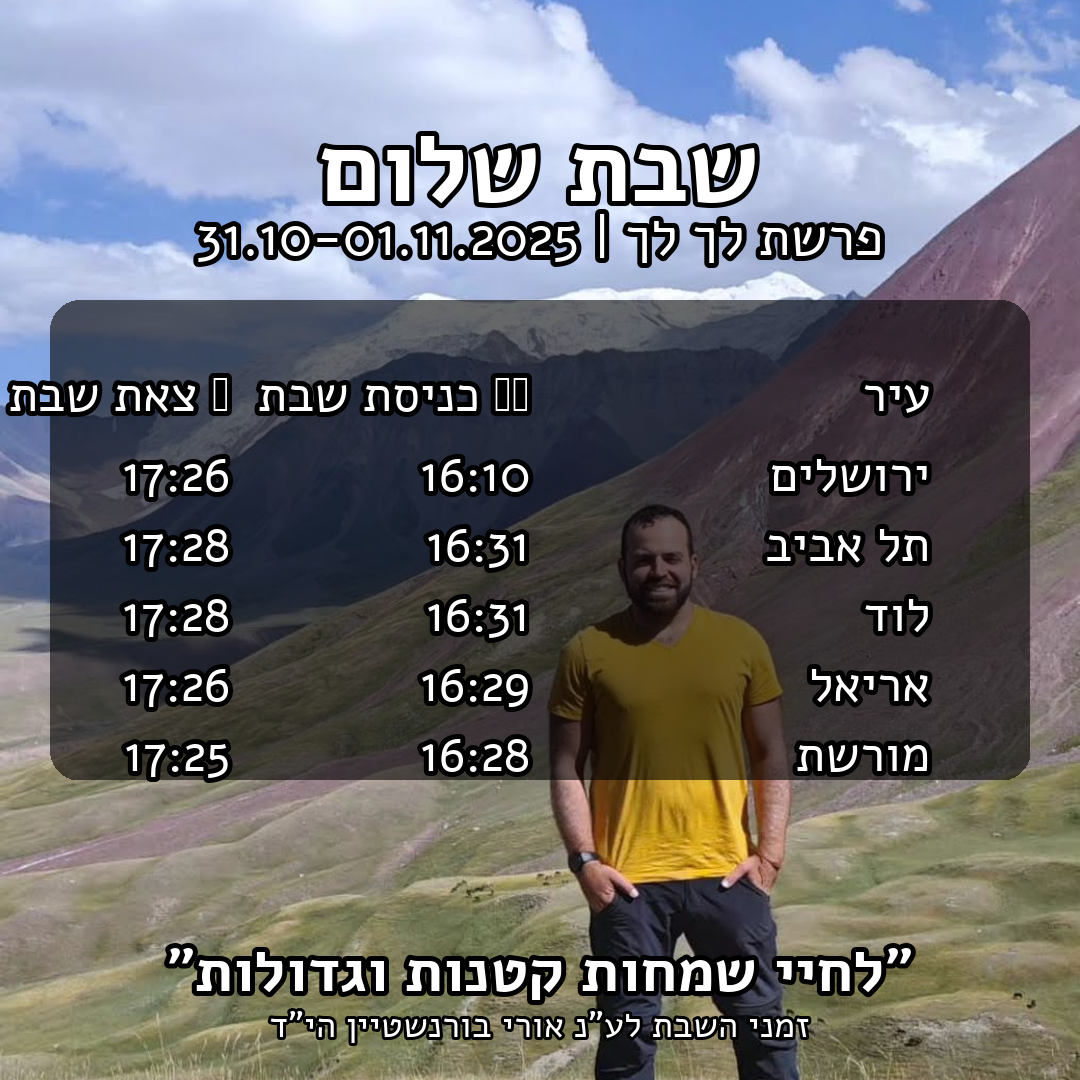
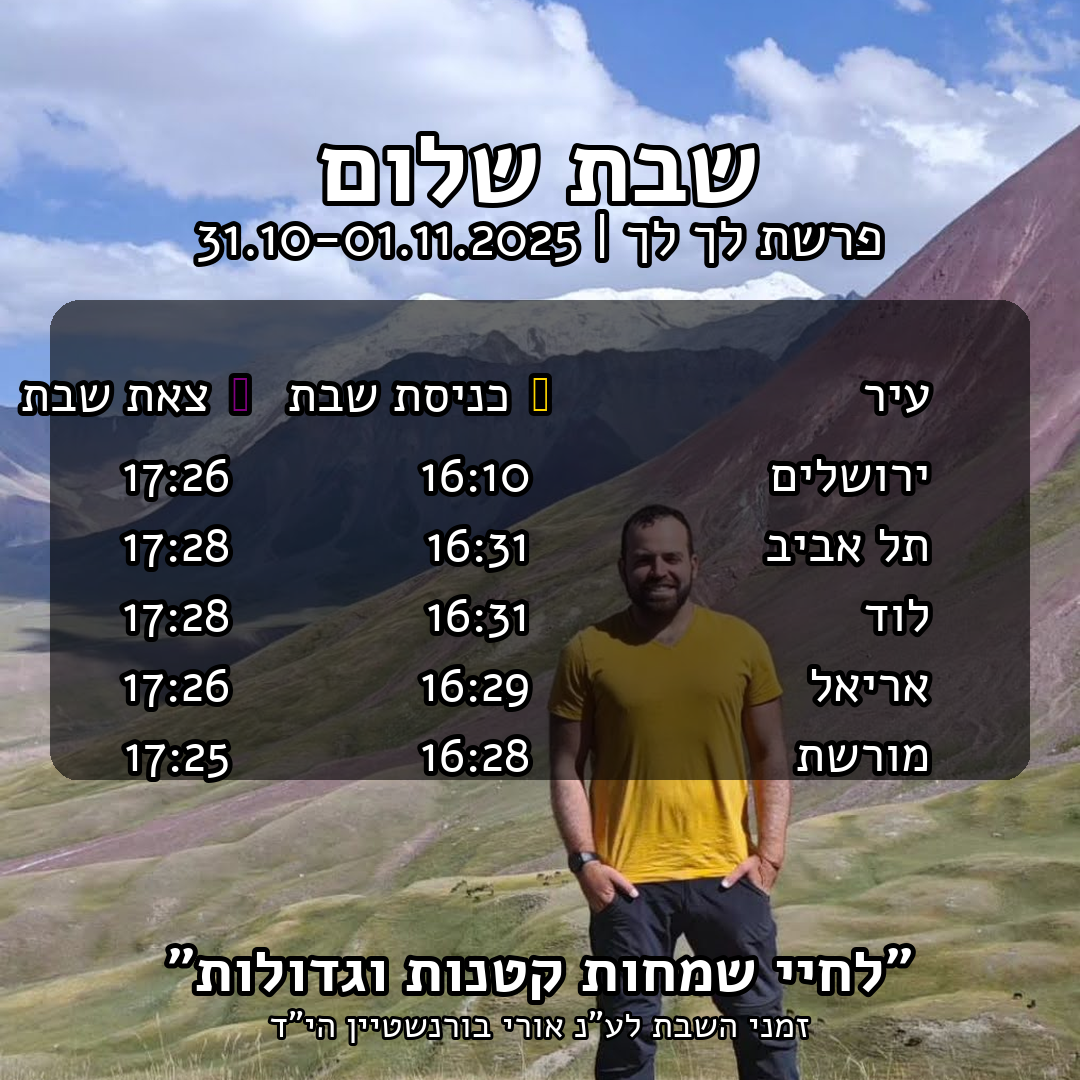
🔧 תיקון סמלים: החלפת אימוג'ים בסמלים יוניקוד שעובדים
תיקון בעיית האימוג'ים:
❌ הבעיה: אימוג'ים 🕯🍷 הופיעו כריבועים ריקים
✅ הפתרון: סמלים יוניקוד פשוטים שעובדים בכל פונט

סמלים חדשים:
● (עיגול זהוב) = נרות שבת/חג
◆ (יהלום סגול) = כוס יין להבדלה

היתרונות:
- עובד בכל מערכת הפעלה
- לא תלוי בפונטים מיוחדים
- נראה טוב ומובן
- צבעים מתאימים (זהב לנרות, סגול לכוס)

עכשיו הסמלים מופיעים בצורה מושלמת!

Changed region(s): [[0.0, 0.3361, 0.5194, 0.3972]]

diff --git a/make_shabbat_posts.py b/make_shabbat_posts.py
@@ -81,6 +81,34 @@ def load_font(size: int, bold=False) -> ImageFont.FreeTypeFont:
                 continue
     return ImageFont.load_default()
 
+def load_emoji_font(size: int) -> ImageFont.FreeTypeFont:
+    """טוען פונט שתומך באימוג'ים"""
+    # פונטים שתומכים באימוג'ים במערכות שונות
+    emoji_candidates = [
+        # macOS
+        "/System/Library/Fonts/Apple Color Emoji.ttc",
+        "/Library/Fonts/Apple Color Emoji.ttc",
+        # Windows
+        "C:/Windows/Fonts/seguiemj.ttf",
+        "C:/Windows/Fonts/NotoColorEmoji.ttf",
+        # Linux
+        "/usr/share/fonts/truetype/noto/NotoColorEmoji.ttf",
+        "/usr/share/fonts/TTF/NotoColorEmoji.ttf",
+        # Fallback - פונטים רגילים שעשויים לתמוך באימוג'ים
+        "DejaVuSans.ttf",
+        "Arial.ttf",
+    ]
+
+    for path in emoji_candidates:
+        if os.path.isfile(path):
+            try:
+                return ImageFont.truetype(path, size=size)
+            except Exception:
+                continue
+
+    # אם לא מצאנו פונט אימוג'ים, נחזיר פונט רגיל
+    return load_font(size)
+
 # ========= DATA FROM JEWCAL =========
 def find_event_sequence(start_date: date) -> tuple[date, date, str, str]:
     """Find a complete event sequence (Shabbat or holiday sequence).
@@ -573,11 +601,19 @@ def compose_poster(bg_img: Image.Image, week_info: dict, all_cities_rows: list, 
     draw_text_with_stroke(draw, (col_city_x, y), "עיר", row_font, fill, stroke, stroke_w, anchor="ra", rtl=True)
 
     if event_type == "yomtov":
-        draw_text_with_stroke(draw, (col_candle_x, y), "🕯 הדלקת נרות", row_font, fill, stroke, stroke_w, anchor="ra", rtl=True)
-        draw_text_with_stroke(draw, (col_hav_x, y), "🍷 צאת החג", row_font, fill, stroke, stroke_w, anchor="ra", rtl=True)
+        # סמלים יוניקוד פשוטים שעובדים בכל פונט
+        draw_text_with_stroke(draw, (col_candle_x + 20, y), "●", row_font, "gold", stroke, stroke_w, anchor="ra")
+        draw_text_with_stroke(draw, (col_candle_x - 20, y), "הדלקת נרות", row_font, fill, stroke, stroke_w, anchor="ra", rtl=True)
+
+        draw_text_with_stroke(draw, (col_hav_x + 20, y), "◆", row_font, "purple", stroke, stroke_w, anchor="ra")
+        draw_text_with_stroke(draw, (col_hav_x - 20, y), "צאת החג", row_font, fill, stroke, stroke_w, anchor="ra", rtl=True)
     else:
-        draw_text_with_stroke(draw, (col_candle_x, y), "🕯 כניסת שבת", row_font, fill, stroke, stroke_w, anchor="ra", rtl=True)
-        draw_text_with_stroke(draw, (col_hav_x, y), "🍷 צאת שבת", row_font, fill, stroke, stroke_w, anchor="ra", rtl=True)
+        # סמלים יוניקוד פשוטים שעובדים בכל פונט
+        draw_text_with_stroke(draw, (col_candle_x + 20, y), "●", row_font, "gold", stroke, stroke_w, anchor="ra")
+        draw_text_with_stroke(draw, (col_candle_x - 20, y), "כניסת שבת", row_font, fill, stroke, stroke_w, anchor="ra", rtl=True)
+
+        draw_text_with_stroke(draw, (col_hav_x + 20, y), "◆", row_font, "purple", stroke, stroke_w, anchor="ra")
+        draw_text_with_stroke(draw, (col_hav_x - 20, y), "צאת שבת", row_font, fill, stroke, stroke_w, anchor="ra", rtl=True)
     y += row_font.size + 30
 
     for name, candle_hhmm, hav_hhmm in all_cities_rows:
